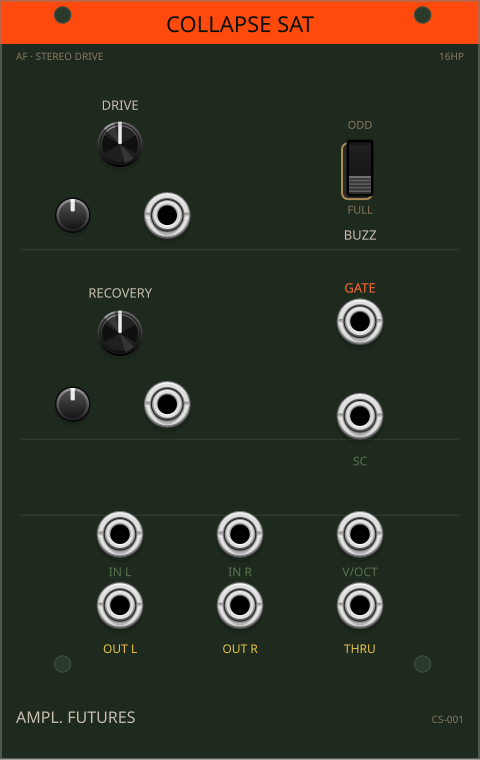
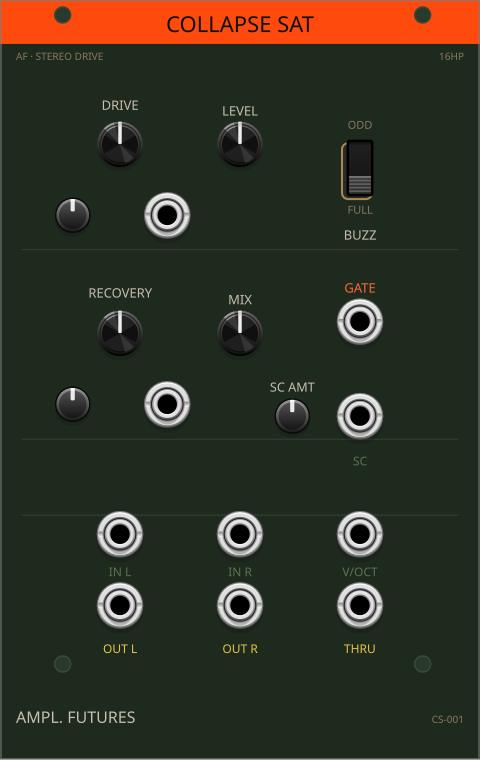
feat(CollapseSat): LEVEL, MIX and SC AMT
Three controls the module was missing, not filler for the widened panel.
preGain reaches x10 with no output trim, so driving it harder only got louder;
saturation was 100% wet with no parallel blend; and the sidechain depth was
hard-coded at 0.5.

Every default reproduces the previous behaviour exactly - unity, fully wet, 0.5 -
so a patch saved before this sounds identical after it. Params are appended to
the enum, never inserted.

Changed region(s): [[0.4375, 0.1211, 0.5625, 0.2421], [0.5625, 0.4842, 0.6562, 0.575], [0.4375, 0.3934, 0.5625, 0.4842]]

diff --git a/src/CollapseSaturator.cpp b/src/CollapseSaturator.cpp
@@ -28,6 +28,11 @@ struct CollapseSaturator : Module {
 		BUZZ_PARAM,
 		RECOVERY_PARAM,
 		RECOVERY_ATTEN_PARAM,
+		// Appended - never inserted above. Rack serialises params by position,
+		// so an insert would silently remap every saved patch.
+		LEVEL_PARAM,
+		MIX_PARAM,
+		SC_AMT_PARAM,
 		PARAMS_LEN
 	};
 	enum InputId {
@@ -61,6 +66,12 @@ struct CollapseSaturator : Module {
 		configParam(RECOVERY_PARAM,       0.f, 1.f, 0.3f, "Recovery", "%", 0.f, 100.f);
 		configParam(RECOVERY_ATTEN_PARAM,-1.f, 1.f, 0.f,  "Recovery attenuverter");
 
+		// Defaults reproduce the previous behaviour exactly: unity out, fully
+		// wet, and the sidechain depth that used to be hard-coded at 0.5.
+		configParam(LEVEL_PARAM,  0.f, 2.f, 1.f, "Output level", "x");
+		configParam(MIX_PARAM,    0.f, 1.f, 1.f, "Dry / wet", "%", 0.f, 100.f);
+		configParam(SC_AMT_PARAM, 0.f, 1.f, 0.5f, "Sidechain amount", "%", 0.f, 100.f);
+
 		configInput(IN_L_INPUT,       "Left");
 		configInput(IN_R_INPUT,       "Right");
 		configInput(DRIVE_CV_INPUT,   "Drive CV");
@@ -88,7 +99,7 @@ struct CollapseSaturator : Module {
 		// Sidechain: boosts drive proportional to its amplitude
 		if (inputs[SIDECHAIN_INPUT].isConnected()) {
 			float sc = std::abs(inputs[SIDECHAIN_INPUT].getVoltage()) / 5.f;
-			drive = clamp(drive + sc * 0.5f, 0.f, 1.f);
+			drive = clamp(drive + sc * params[SC_AMT_PARAM].getValue(), 0.f, 1.f);
 		}
 
 		// Collapse: gate fires → ramp to full drive + hard clip, then recover
@@ -104,7 +115,8 @@ struct CollapseSaturator : Module {
 			int inId  = (ch == 0) ? IN_L_INPUT  : IN_R_INPUT;
 			int outId = (ch == 0) ? OUT_L_OUTPUT : OUT_R_OUTPUT;
 
-			float x = inputs[inId].getVoltage() / 5.f * preGain;
+			const float dry = inputs[inId].getVoltage();
+			float x = dry / 5.f * preGain;
 
 			float sat;
 			if (buzz == 0) {
@@ -126,7 +138,13 @@ struct CollapseSaturator : Module {
 				sat = sat + (hard - sat) * collapseEnv;
 			}
 
-			outputs[outId].setVoltage(sat * 5.f);
+			// Parallel blend, then output trim. preGain reaches x10, so
+			// without a trim the only way to hear more drive was more level.
+			const float wet = sat * 5.f;
+			const float mix = params[MIX_PARAM].getValue();
+			const float out = (dry * (1.f - mix) + wet * mix)
+			                * params[LEVEL_PARAM].getValue();
+			outputs[outId].setVoltage(clamp(out, -11.7f, 11.7f));
 		}
 
 		outputs[VOCT_OUTPUT].setVoltage(inputs[VOCT_INPUT].getVoltage());
@@ -157,6 +175,12 @@ struct CollapseSaturatorWidget : ModuleWidget {
 
 		addInput(createInputCentered<PJ301MPort>(mm2px(Vec(60.96f,54.45f)), module, CollapseSaturator::COLLAPSE_INPUT));
 		addInput(createInputCentered<PJ301MPort>(mm2px(Vec(60.96f,70.45f)), module, CollapseSaturator::SIDECHAIN_INPUT));
+
+		// Middle column: the 16 HP widening left it empty, and these three are
+		// the controls the module was actually missing rather than filler.
+		addParam(createParamCentered<RoundSmallBlackKnob>(mm2px(Vec(40.64f, 24.45f)), module, CollapseSaturator::LEVEL_PARAM));
+		addParam(createParamCentered<RoundSmallBlackKnob>(mm2px(Vec(40.64f, 56.45f)), module, CollapseSaturator::MIX_PARAM));
+		addParam(createParamCentered<Trimpot>(            mm2px(Vec(49.50f, 70.45f)), module, CollapseSaturator::SC_AMT_PARAM));
 
 		// ── Row 3+4: Stereo IO + V/OCT thru ──────────────────────
 		addInput(createInputCentered<PJ301MPort>( mm2px(Vec(20.32f,90.45f)), module, CollapseSaturator::IN_L_INPUT));

diff --git a/README.md b/README.md
@@ -196,11 +196,13 @@ Harmonic series pitch CV generator. PITCH root + SPREAD ensemble detuning. PARTI
 
 ---
 
-### COLLAPSE SATURATOR — 12HP
+### COLLAPSE SATURATOR — 16HP
 
 ![CollapseSat panel](docs/panels/CollapseSat.png)
 
 Stereo drive/saturation with collapse. DRIVE pre-gain. BUZZ character: ODD (symmetric tanh), EVEN (asymmetric tape DC-free), FULL (hard clip). COLLAPSE gate instantly maxes drive; RECOVERY sets return time. Sidechain input boosts drive. V/OCT pass-through.
+
+Widened to 16 HP and given the three controls it was missing: LEVEL (output trim - preGain reaches x10, so without it the only way to hear more drive was more level), MIX (parallel dry/wet blend) and SC AMT (the sidechain depth that used to be hard-coded). All three default to the previous behaviour, so patches saved before the change sound identical.
 
 **Inputs:** IN L, IN R, SIDECHAIN, COLLAPSE gate, DRIVE CV + ATT
 **Outputs:** OUT L, OUT R, THRU (V/OCT)
